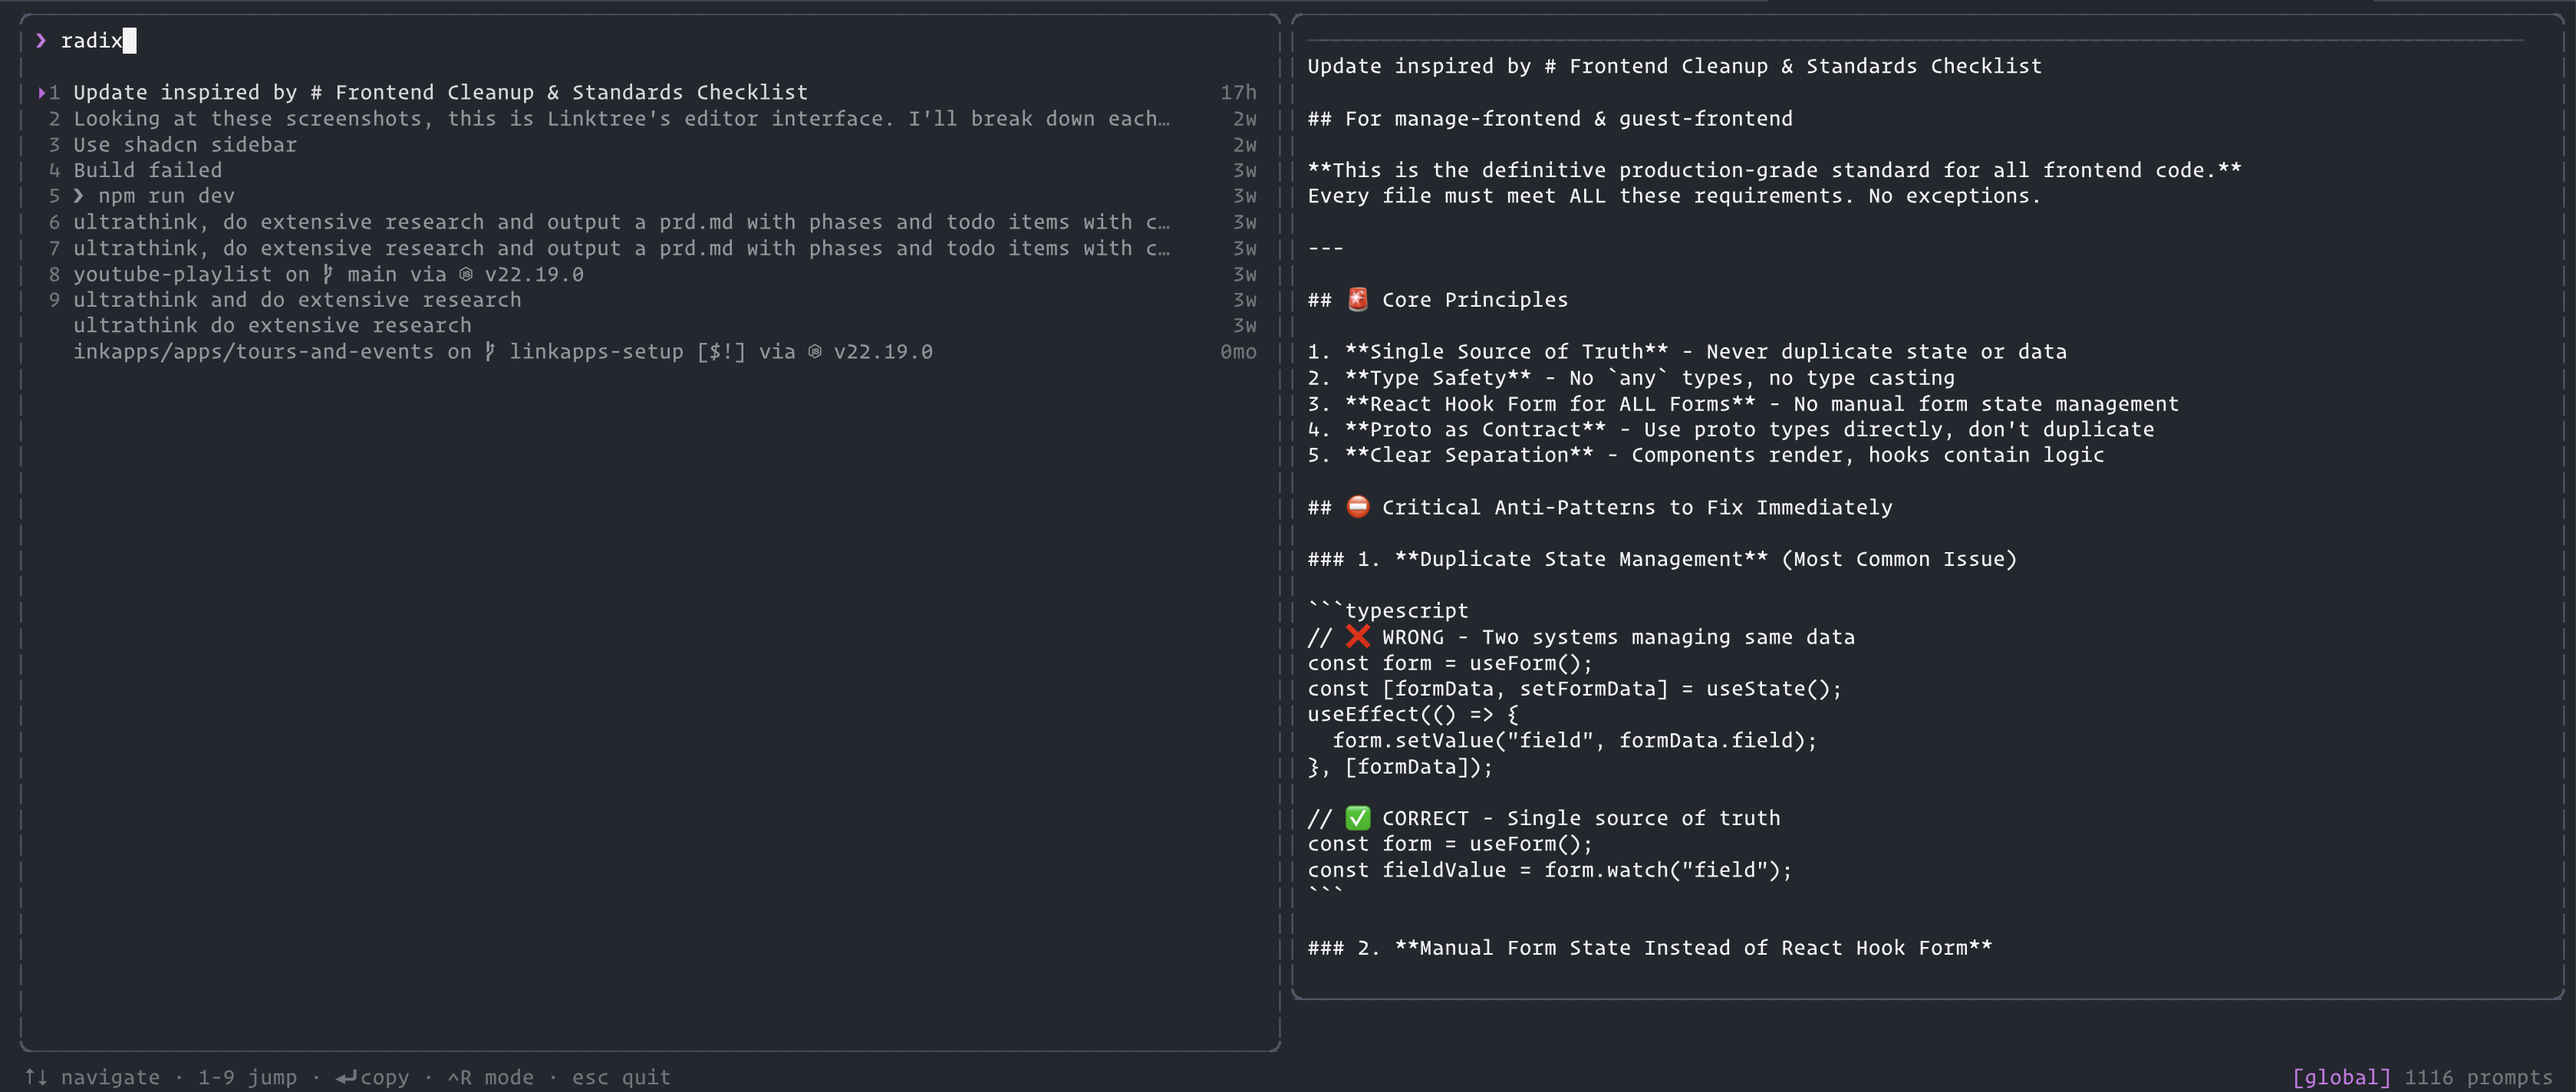
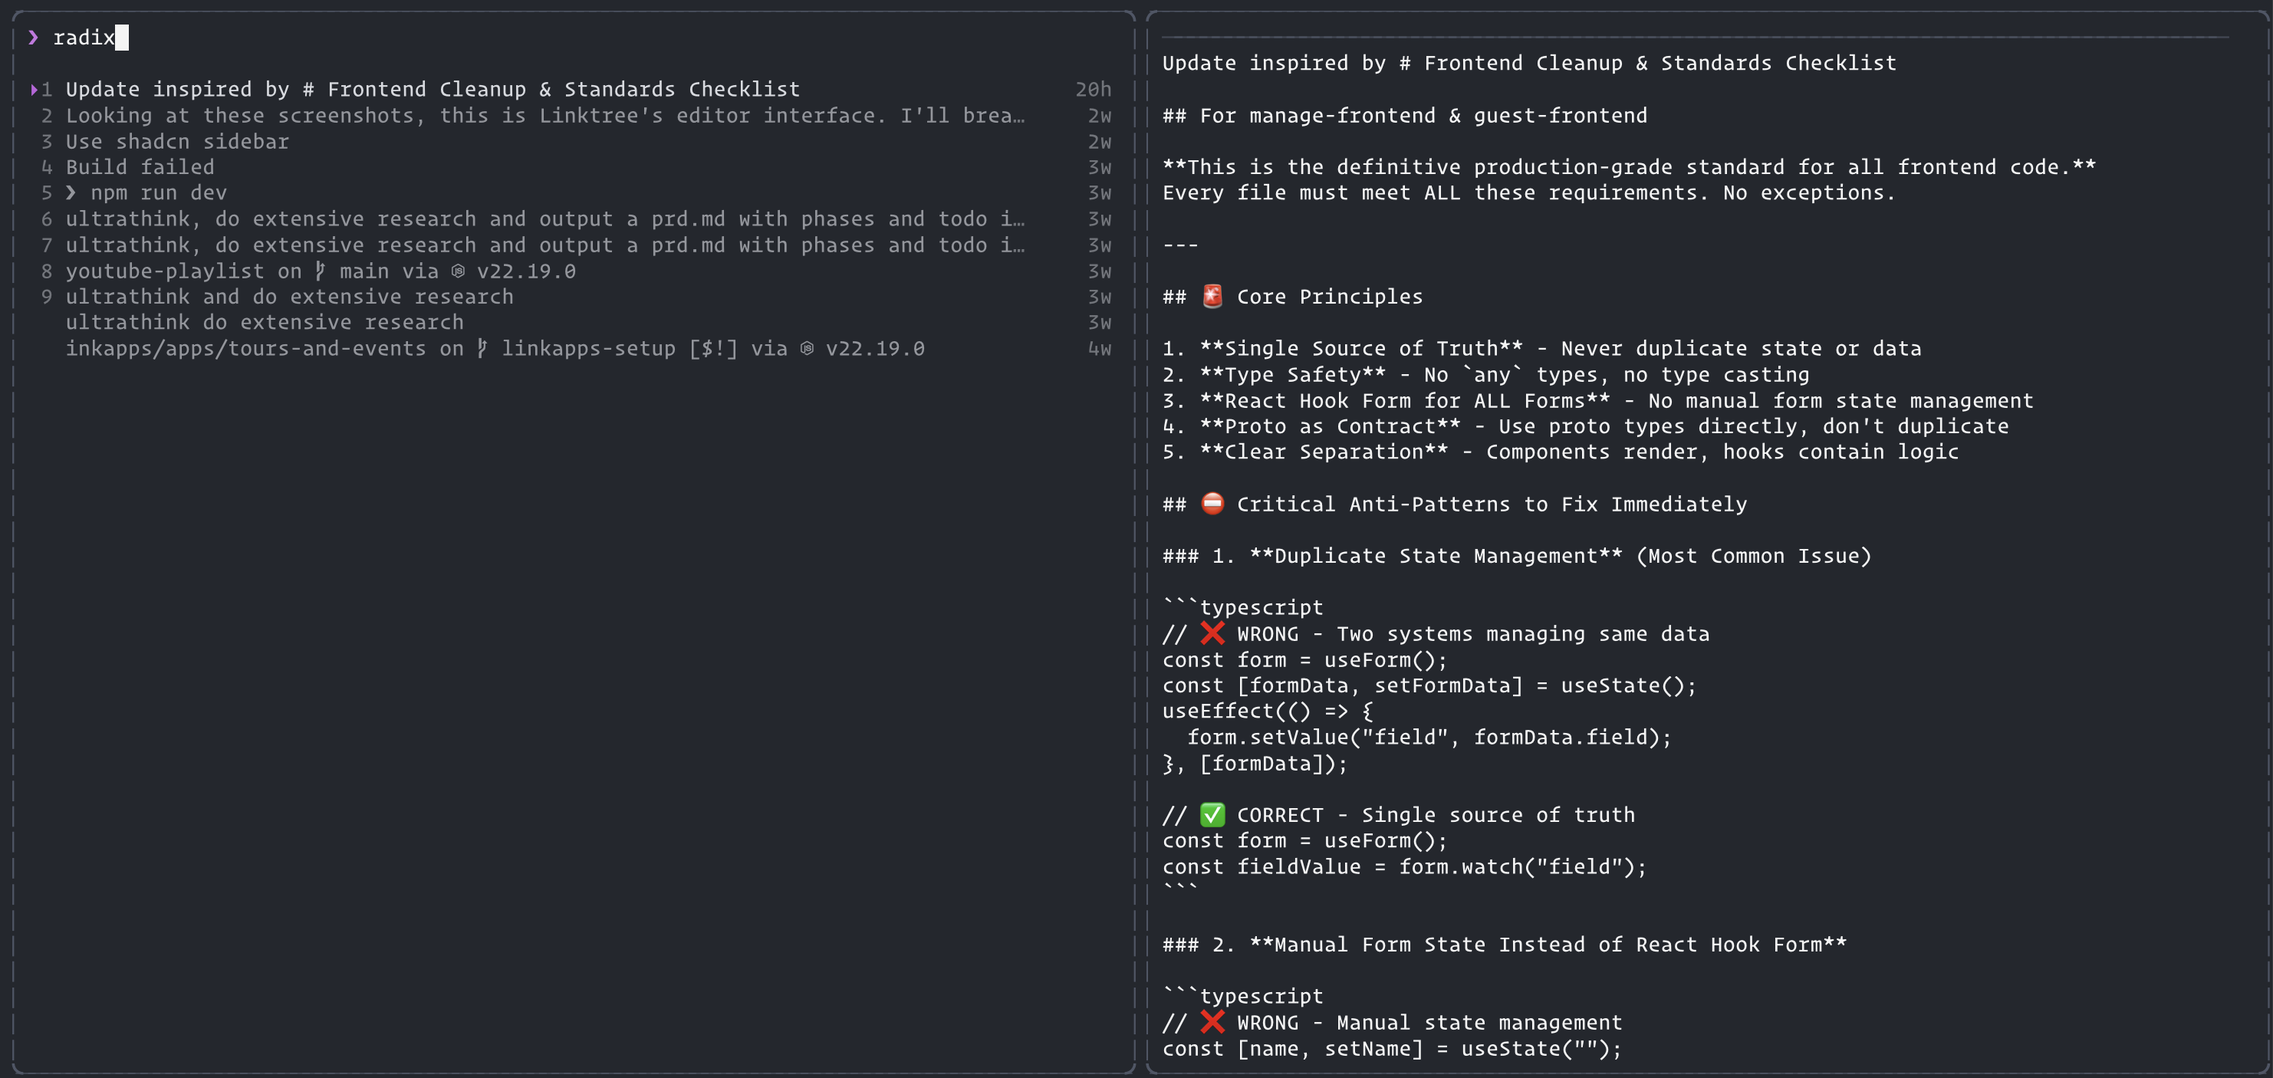
Fix styling

diff --git a/src/app.tsx b/src/app.tsx
@@ -77,7 +77,7 @@ function App({ cwd }: { cwd: string }) {
   return (
     <Box flexDirection="column" height={terminalHeight}>
       <Box flexGrow={1} flexDirection="row" overflow="hidden">
-        <Box flexDirection="column" width={leftPaneWidth} borderStyle="round" borderColor="gray" paddingX={1} overflow="hidden">
+        <Box flexDirection="column" width={leftPaneWidth} borderStyle="round" borderColor="gray" paddingX={1} overflow="hidden" flexGrow={1}>
           <Box>
             <Text color="magenta" bold>❯ </Text>
             <TextInput value={query} onChange={setQuery} placeholder="Search prompts..." />
@@ -110,9 +110,7 @@ function App({ cwd }: { cwd: string }) {
             )}
           </Box>
         </Box>
-        <Box width={rightPaneWidth} overflow="hidden">
-          <PreviewPane message={selectedMessage} height={terminalHeight - 3} width={rightPaneWidth} />
-        </Box>
+        <PreviewPane message={selectedMessage} width={rightPaneWidth} />
       </Box>
       <Box justifyContent="space-between" paddingX={1}>
         <Text color="gray" dimColor>↑↓ navigate · 1-9 jump · ⏎ copy · ^R mode · esc quit</Text>

diff --git a/src/components/PreviewPane.tsx b/src/components/PreviewPane.tsx
@@ -5,23 +5,22 @@ import { compactTime } from "../utils/time.js";
 
 interface Props {
   message: ParsedMessage | undefined;
-  height: number;
   width: number;
 }
 
-export function PreviewPane({ message, height, width }: Props) {
+export function PreviewPane({ message, width }: Props) {
   const contentWidth = Math.max(10, width - 4);
 
   if (!message) {
     return (
-      <Box flexDirection="column" width={width} borderStyle="round" borderColor="gray" paddingX={1} height={height} overflow="hidden">
+      <Box flexDirection="column" width={width} borderStyle="round" borderColor="gray" paddingX={1} flexGrow={1} overflow="hidden">
         <Text color="gray" dimColor>Select a prompt to preview</Text>
       </Box>
     );
   }
 
   return (
-    <Box flexDirection="column" width={width} borderStyle="round" borderColor="gray" paddingX={1} height={height} overflow="hidden">
+    <Box flexDirection="column" width={width} borderStyle="round" borderColor="gray" paddingX={1} flexGrow={1} overflow="hidden">
       <Box width={contentWidth}>
         <Text wrap="truncate">
           <Text color="white" bold>{message.projectName}</Text>
